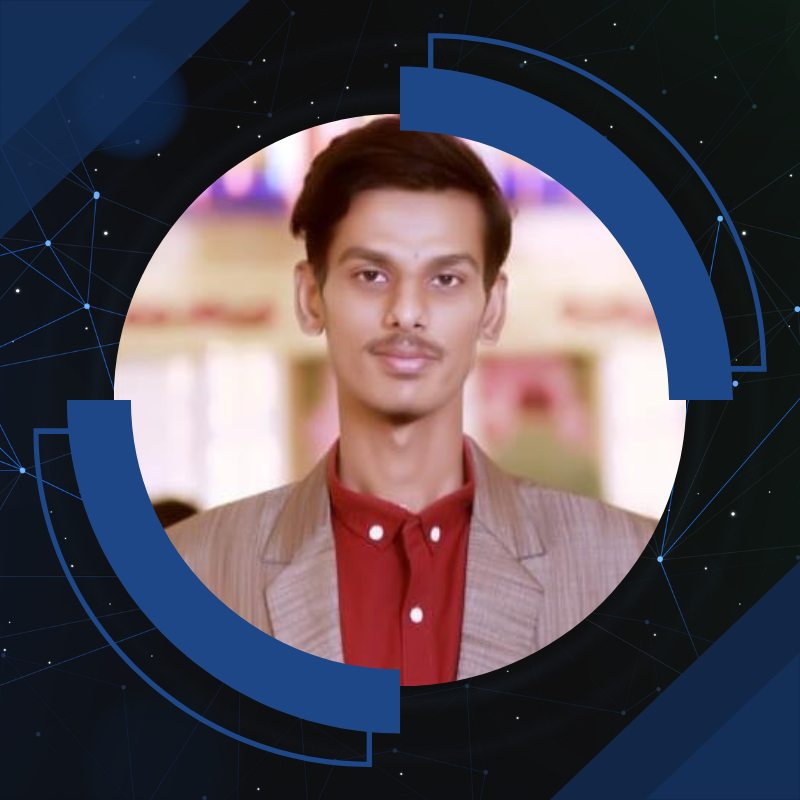
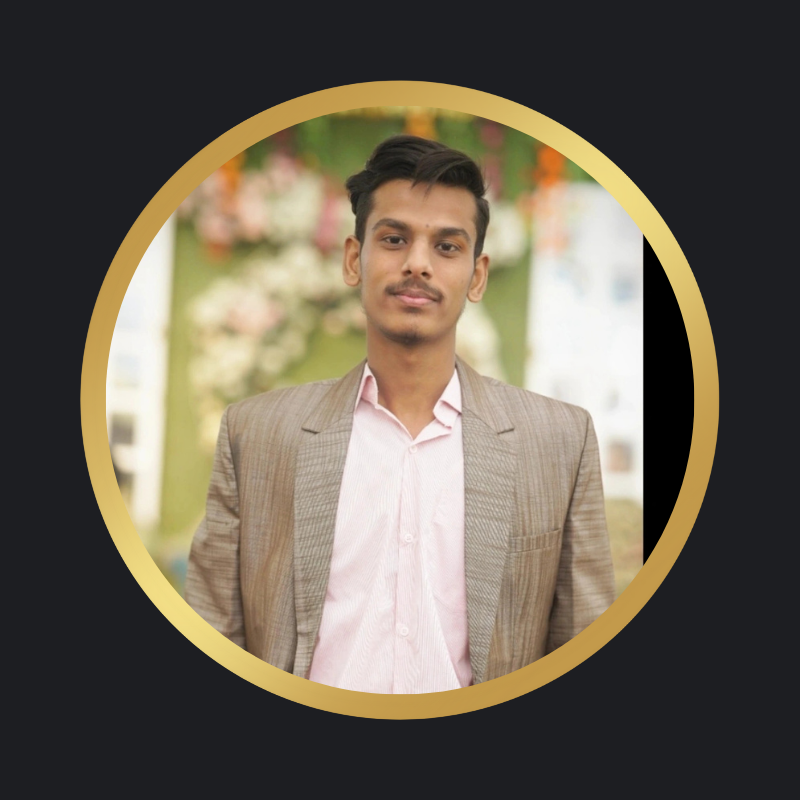
updated file name

diff --git a/src/components/Hero.tsx b/src/components/Hero.tsx
@@ -15,7 +15,7 @@ const Hero: React.FC = () => {
         <p className="hero-description">
           I am a passionate web developer skilled in crafting responsive visually appealing websites
         </p> 
-        <Link href="#"> <button className="explore-button">Hire Me</button></Link>
+        <Link href="https://www.linkedin.com/in/muhammad-mubashir-saeedi/"> <button className="explore-button">Hire Me</button></Link>
        
       </div>
     </section>

diff --git a/src/css-files/about.css b/src/css-files/about.css
@@ -36,7 +36,7 @@
 .about-image {
     width: 180px;
     height: 180px;
-    background-image: url('/images/me.jpg'); /* Replace with your image */
+    background-image: url('/images/profile.png'); /* Replace with your image */
     background-size: cover;
     background-position: center;
     border-radius: 50%;
